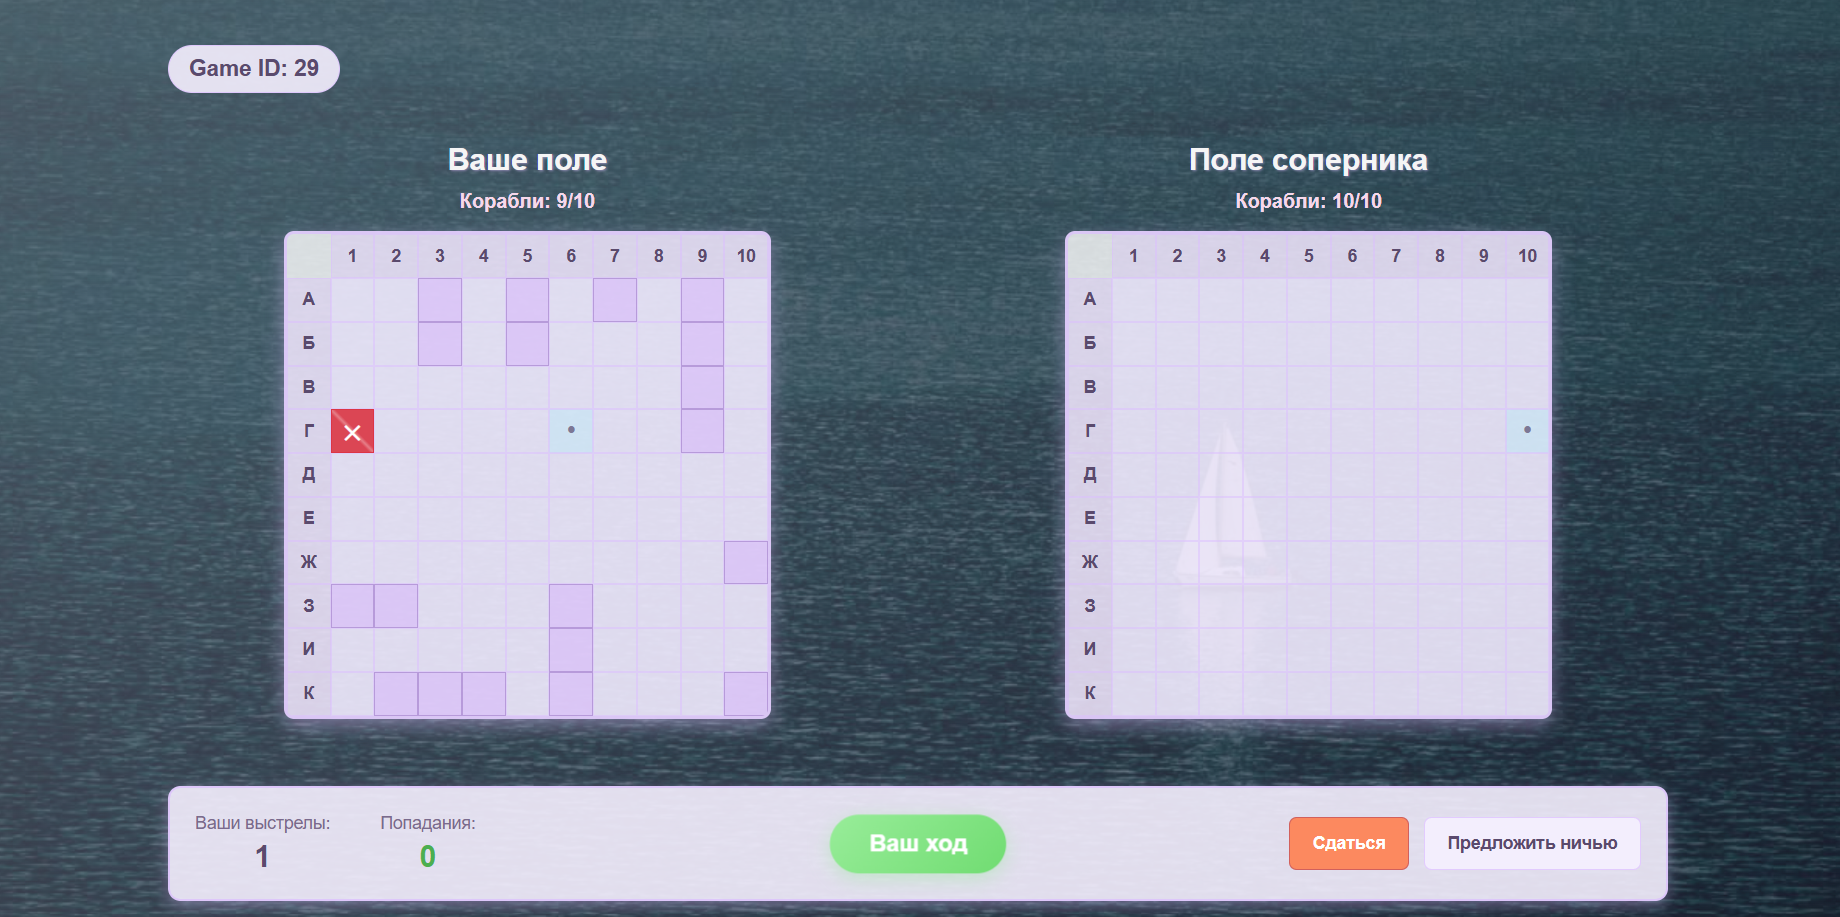
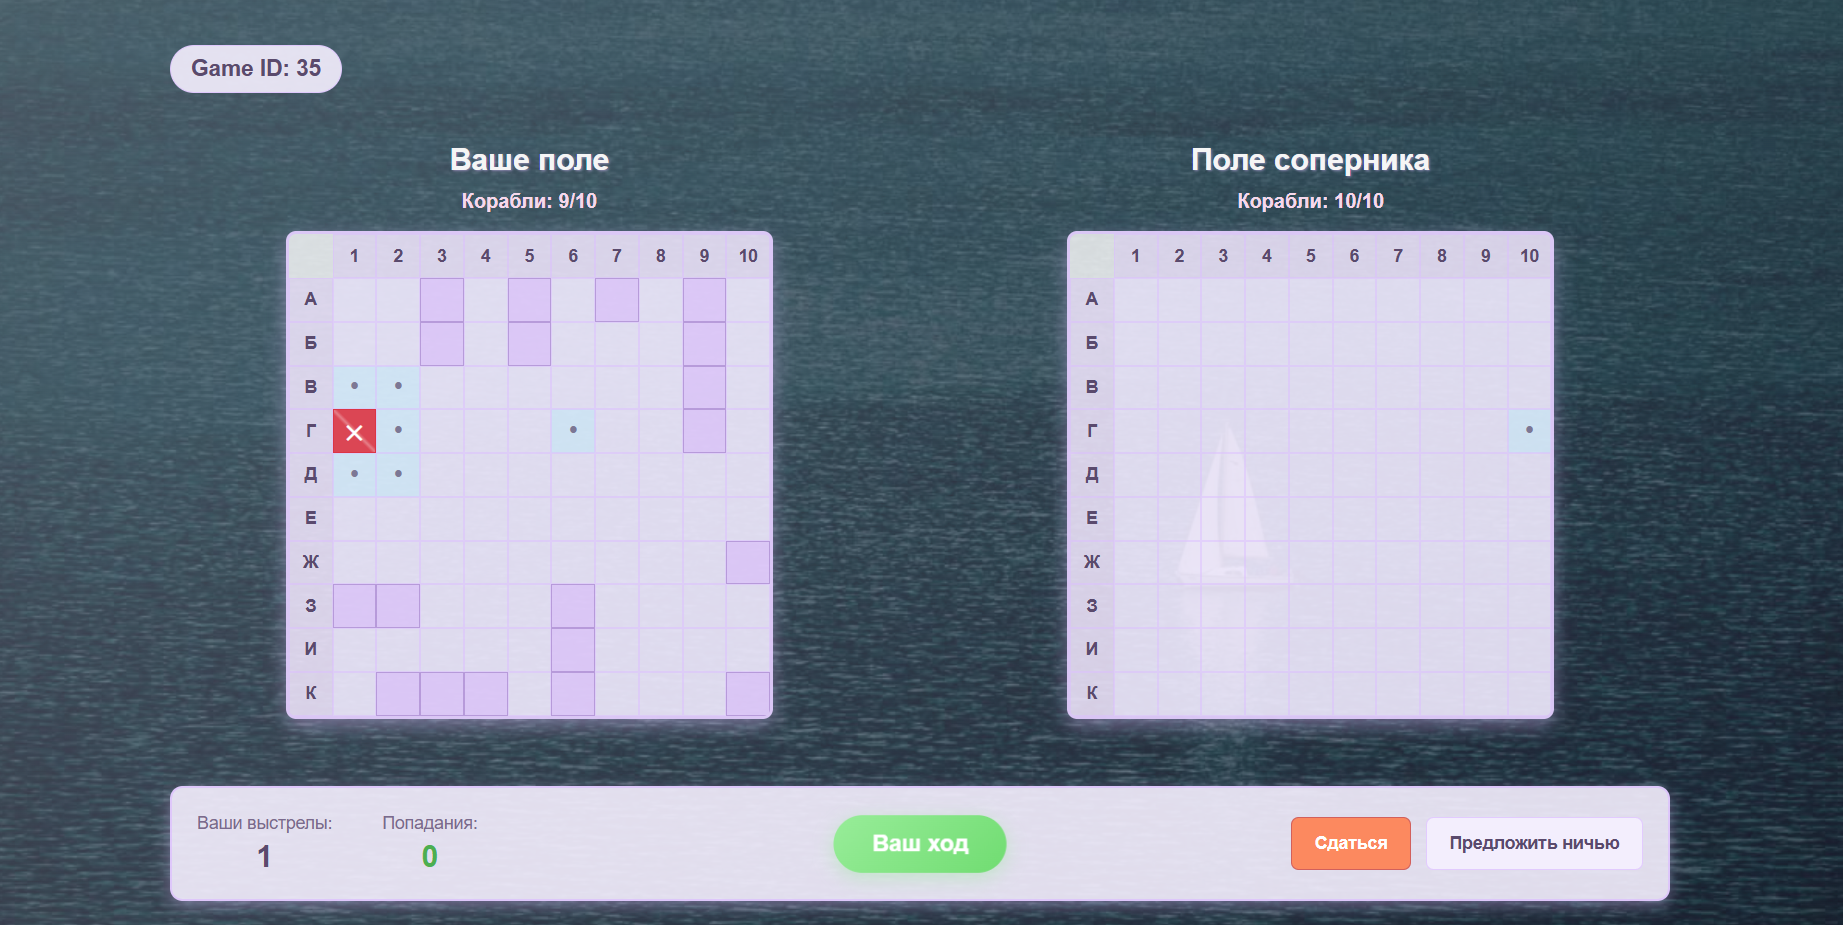
замена в info после новых функций

diff --git a/src/app/pages/info-page/info-page.component.html b/src/app/pages/info-page/info-page.component.html
@@ -328,7 +328,8 @@
                     <img src="assets/info-page/multiZweiG.png" alt="Страница комнаты ведения игры" class="info-image">
                     <div class="image-caption">Страница комнаты ведения игры</div>
                 </div>
-                <p>На рисунке показано попадание в катер на нашем поле. Он теперь отмечен красным крестиком.</p>
+                <p>На рисунке показано попадание в катер на нашем поле.</p>
+                <p>При попадании в корабль соответствующая клетка отмечается красным крестиком. Когда все клетки одного корабля будут отмечаны крестиками, клетки, непосредственно прилегающие к нему по периметру, автоматически заполнятся точками-промахами.</p>
                 <div class="image-container">
                     <img src="assets/info-page/multiSpielerK.png" alt="Соперник попал в корабль на нашем поле" class="info-image">
                     <div class="image-caption">Соперник попал в корабль на нашем игровом поле</div>
